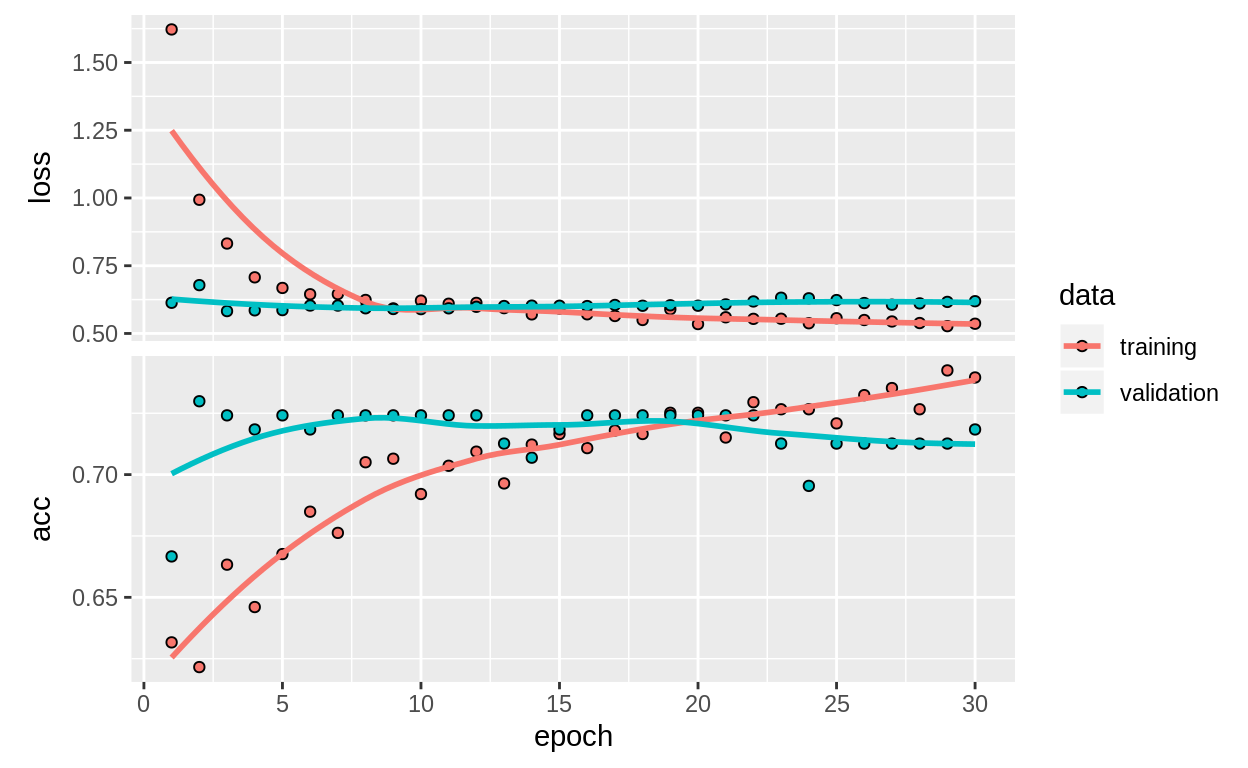
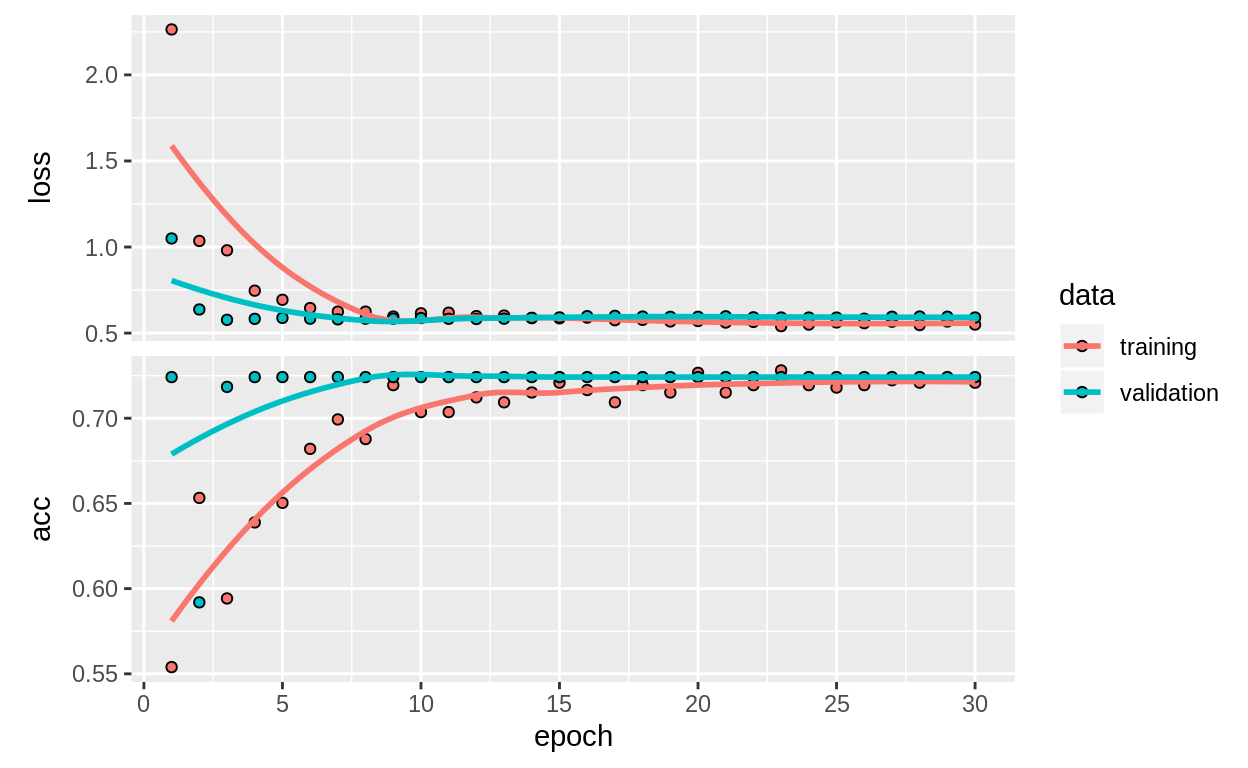
modify note on deep learning

diff --git a/notes/posts/2019-05-28-deep-learning/index.html b/notes/posts/2019-05-28-deep-learning/index.html
@@ -1336,8 +1336,8 @@ gtag('config', 'UA-75879658-3');
 <nav class="d-toc" id="TOC">
 <ul>
 <li><a href="#Intro">はじめに</a></li>
-<li><a>深層学習による投票行動の予測</a></li>
-<li><a>深層学習による投票先の予測</a></li>
+<li><a href="#Vote">深層学習による投票行動の予測</a></li>
+<li><a href="#Party">深層学習による投票先の予測</a></li>
 </ul>
 </nav>
 <hr class="d-toc-separator"/>
@@ -1479,7 +1479,7 @@ See problems(...) for more details.</code></pre>
 <pre class="r"><code>
 set.seed(334)</code></pre>
 </div>
-<h2>深層学習による投票行動の予測</h2>
+<h2 id="Vote">深層学習による投票行動の予測</h2>
 <p>まずは、投票に行くかどうかを深層学習によって予測します。 投票に行くかどうかを<code>target</code>として、投票先を取り除いたデータを作ります。 そして、<code>caret</code>を使って訓練データと検証データに分けるためのインデックスを求めます。</p>
 <div class="layout-chunk" data-layout="l-body">
 <pre class="r"><code>
@@ -1594,19 +1594,19 @@ history &lt;- model_vote %&gt;%
 plot(history)</code></pre>
 <p><img src="deep-learning_files/figure-html5/unnamed-chunk-14-1.png" width="624" /></p>
 </div>
-<p>検証データで予測精度を求めます。 全然精度が良くないことがわかります。</p>
+<p>検証データで予測精度を求めます。</p>
 <div class="layout-chunk" data-layout="l-body">
 <pre class="r"><code>
 model_vote %&gt;% evaluate(x_test, y_test)</code></pre>
 <pre><code>
 $loss
-[1] 0.5869596
+[1] 0.5803263
 
 $acc
-[1] 0.6955017</code></pre>
+[1] 0.6989619</code></pre>
 </div>
 <p>深層学習ではハイパーパラメータの種類が非常に多いのでいろいろなチューニングを試す必要がありそうです。</p>
-<h2>深層学習による投票先の予測</h2>
+<h2 id="Party">深層学習による投票先の予測</h2>
 <p>続いて、どの政党に投票するかを予測します。 概ね、先ほどと同じコードなので相違点だけ言及します。</p>
 <p><code>target</code>を<code>vote</code>ではなく<code>party</code>にします。</p>
 <div class="layout-chunk" data-layout="l-body">
@@ -1690,10 +1690,10 @@ plot(history)</code></pre>
 model_party %&gt;% evaluate(x_test, y_test)</code></pre>
 <pre><code>
 $loss
-[1] 1.371642
+[1] 1.464055
 
 $acc
-[1] 0.5735294</code></pre>
+[1] 0.5441176</code></pre>
 </div>
 <p>精度はまずまずといったところでしょうか。</p>
 <h3>エポック数の増加</h3>
@@ -1716,10 +1716,10 @@ plot(history)</code></pre>
 model_party %&gt;% evaluate(x_test, y_test)</code></pre>
 <pre><code>
 $loss
-[1] 1.228705
+[1] 1.297755
 
 $acc
-[1] 0.5980392</code></pre>
+[1] 0.6127451</code></pre>
 </div>
 <h3>過学習</h3>
 <p>今回のデータはサンプルサイズも変数の数も少ないのでドロップアウトやバッチ学習はいらないのかもしれません。</p>
@@ -1753,10 +1753,10 @@ plot(history)</code></pre>
 model_party %&gt;% evaluate(x_test, y_test)</code></pre>
 <pre><code>
 $loss
-[1] 1.248358
+[1] 1.376232
 
 $acc
-[1] 0.6323529</code></pre>
+[1] 0.5931373</code></pre>
 </div>
 <p>最初の学習に比べると予測精度が改善しましたが、過学習気味です。 しかし、投票行動のデータでやると過学習を起こしている疑いがありました。</p>
 <p>（シード値を設定していても毎回結果が変わっているので、何か間違えている可能性があります）</p>
